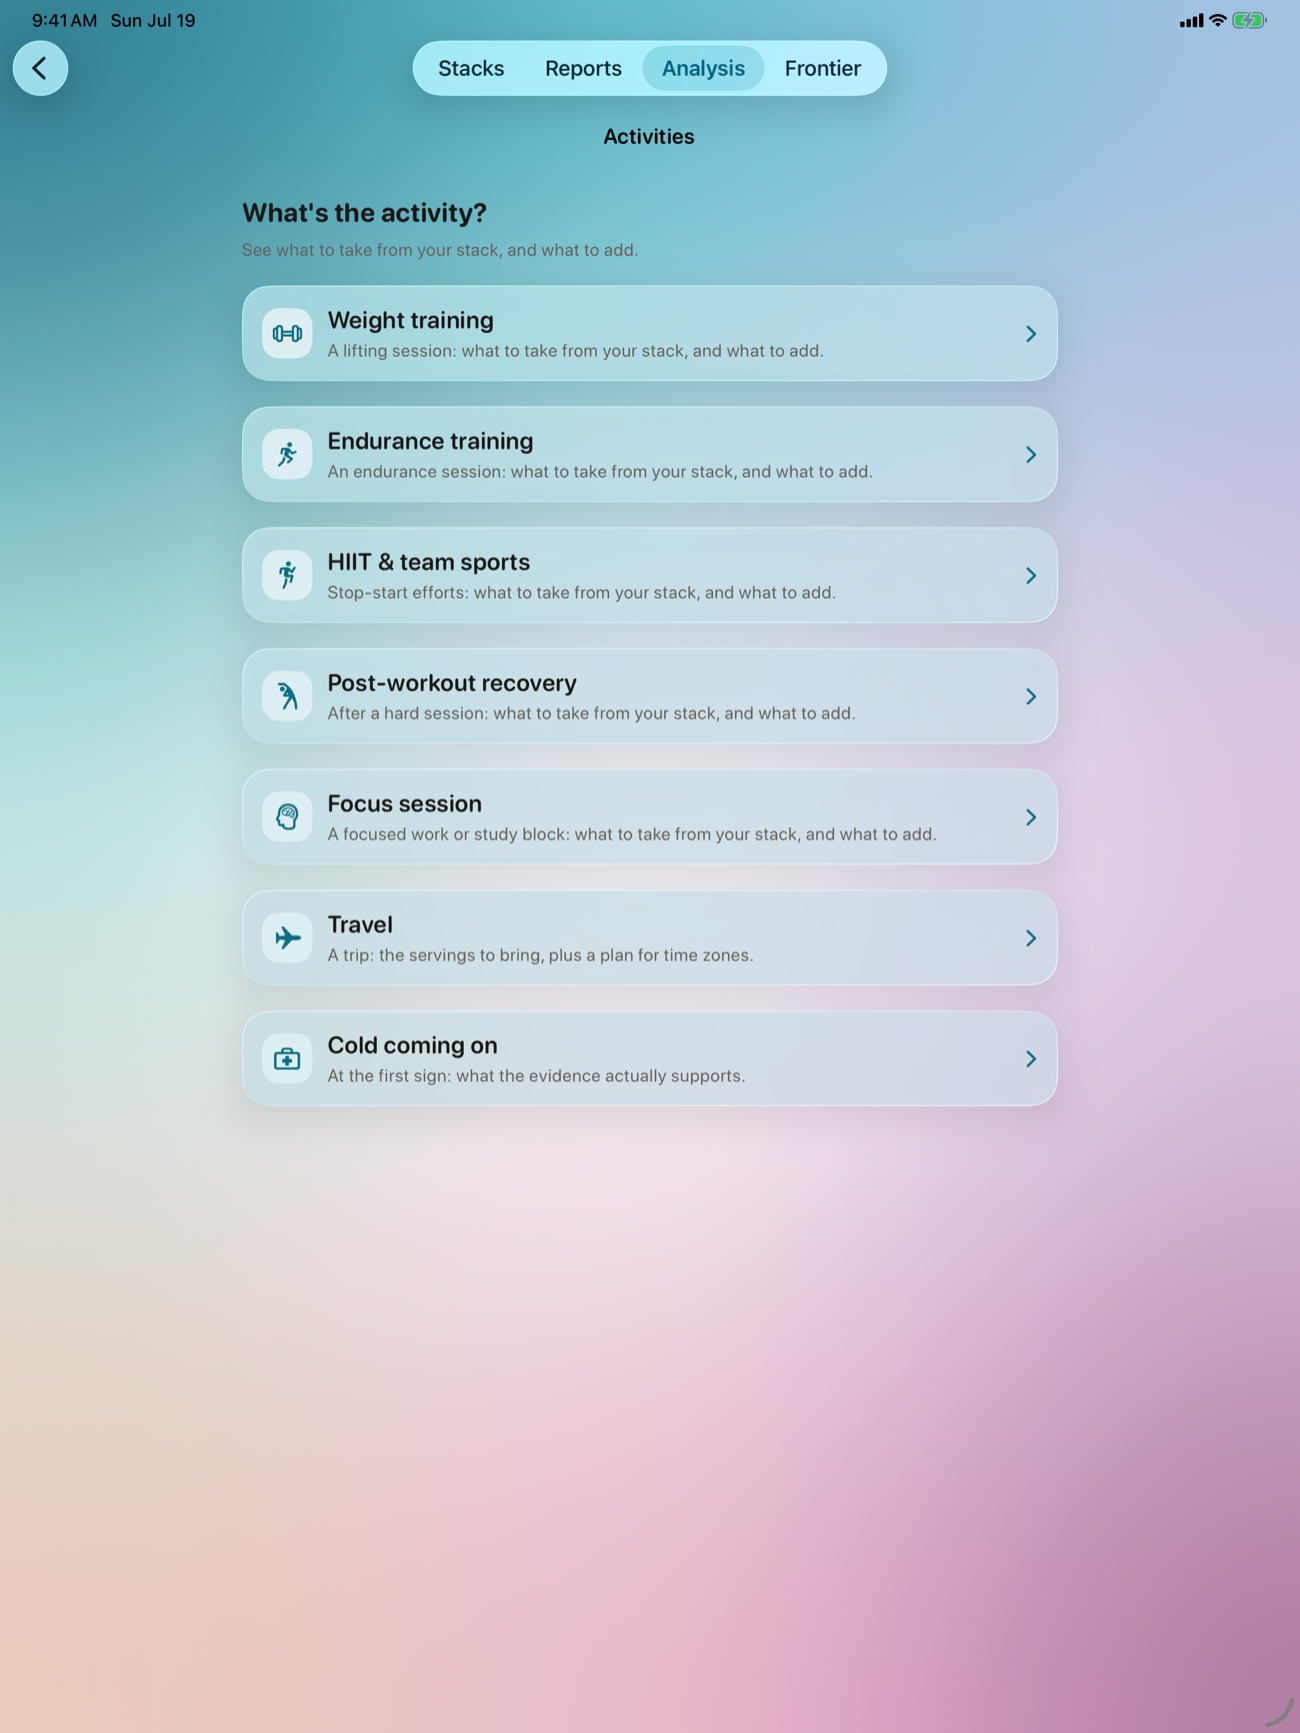
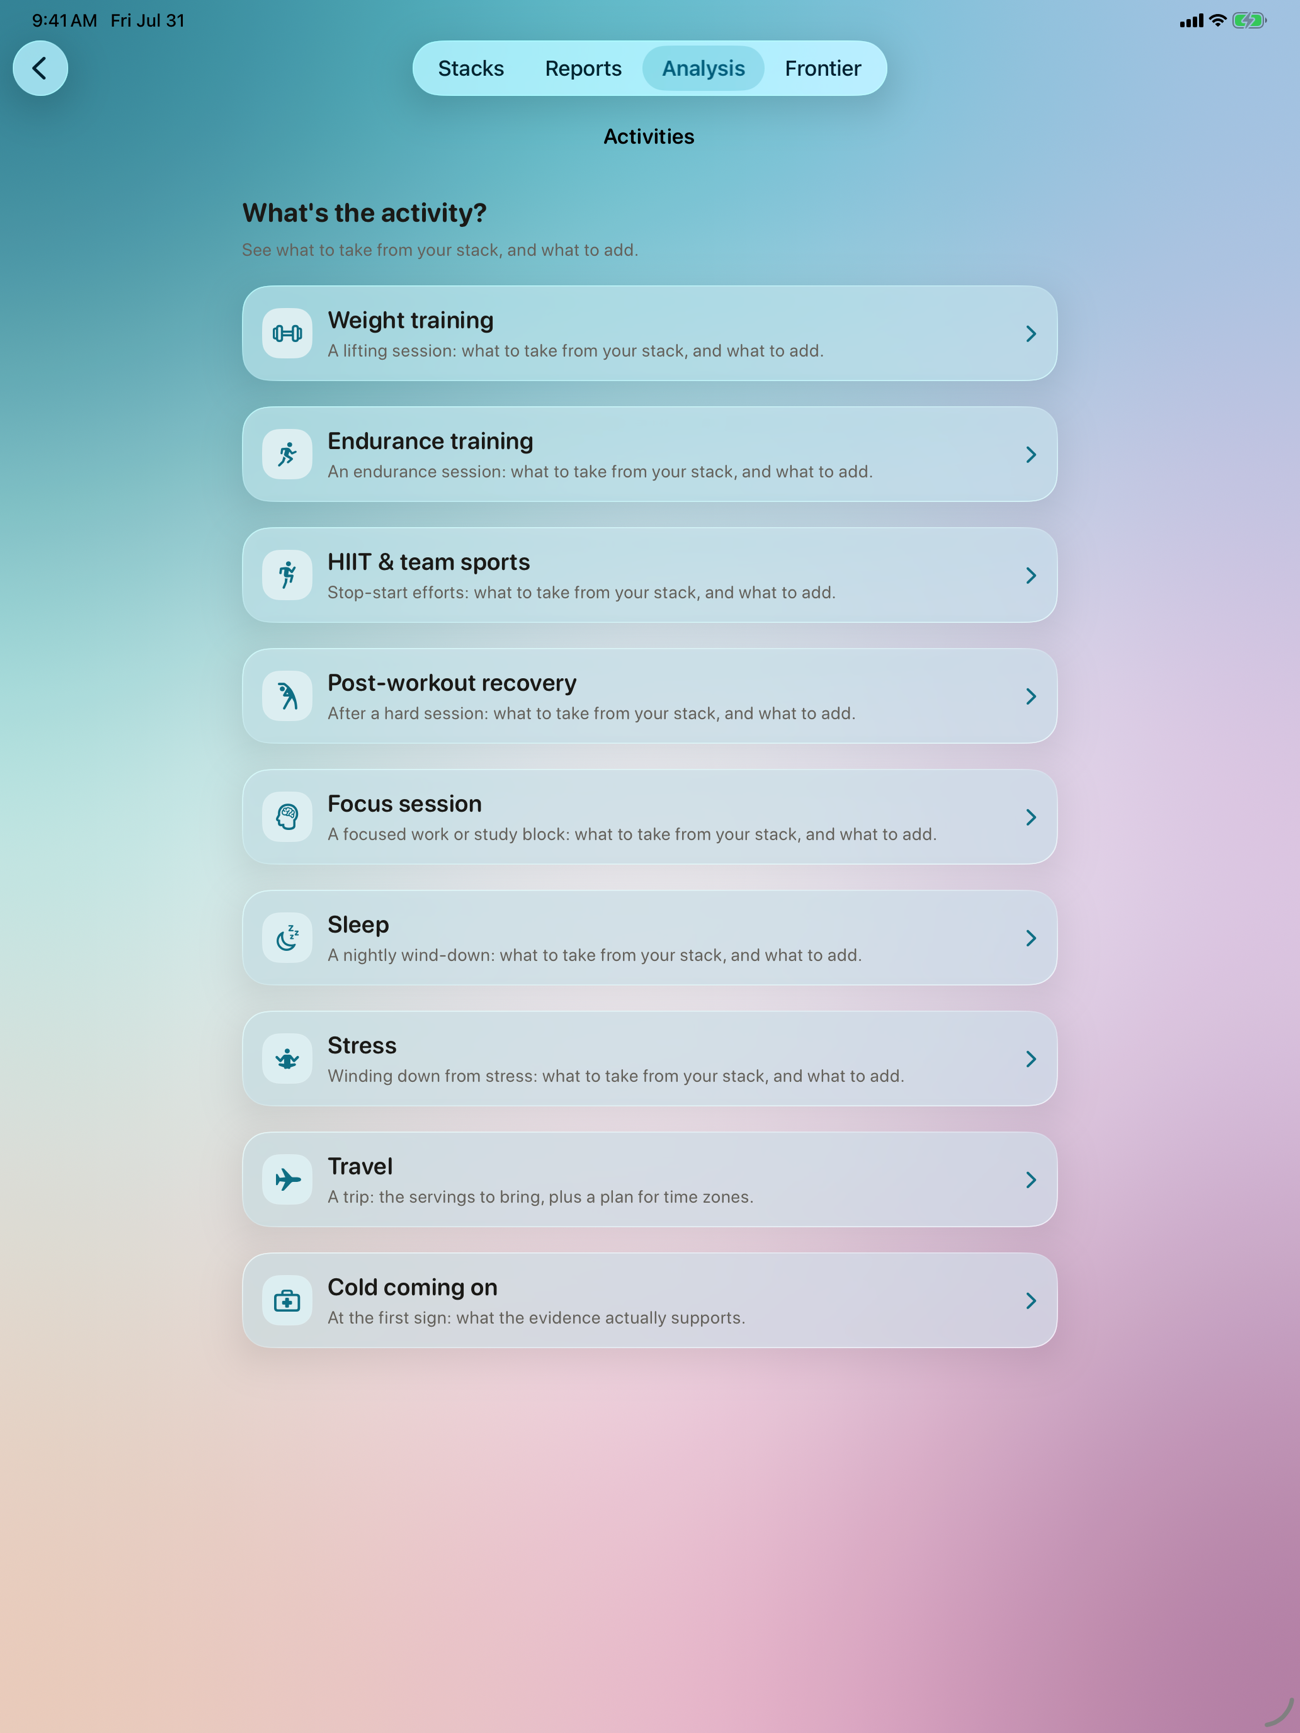
feat(auditly): cover Activities and the frontier deep links
The Activities lens was the page hero but was never named in the copy,
and 2.2.0 added Sleep and Stress to it plus dossier entry points from
the report and stack, so the iPad hero shot was two activities behind.

diff --git a/auditly.html b/auditly.html
@@ -269,15 +269,27 @@
   </div>
 </section>
 
-<!-- ===== FEATURE 4 - FRONTIER ===== -->
+<!-- ===== FEATURE 4 - ACTIVITIES ===== -->
 <section class="feature tinted reverse">
   <div class="grid">
-    <div class="shot"><div class="device device--phone"><img src="/auditly/img/iphone-frontier.png" alt="The Frontier screen - browse early-evidence substances by goal" loading="lazy"></div></div>
+    <div class="shot"><div class="device device--phone"><img src="/auditly/img/iphone-activities.png" alt="The Activities list - pick an occasion to see what to take" loading="lazy"></div></div>
+    <div class="copy">
+      <div class="eyebrow">Activities</div>
+      <h2>Pick the occasion, see the plan.</h2>
+      <p>A lifting session, a focus block, a flight, a rough night, the first sign of a cold. Auditly shows which of the supplements you already own have research behind them for that moment, what may be worth adding, and when to take it. Every suggestion cites at least one human study.</p>
+    </div>
+  </div>
+</section>
+
+<!-- ===== FEATURE 5 - FRONTIER ===== -->
+<section class="feature">
+  <div class="grid">
     <div class="copy">
       <div class="eyebrow">Frontier</div>
       <h2>Go beyond your stack.</h2>
-      <p>Browse the Frontier by goal - longevity, mood, calm, muscle, nootropics - and surface early-evidence leads tied to what you already take. Exploratory reading, not advice.</p>
+      <p>Browse the Frontier by goal - longevity, mood, calm, muscle, nootropics - and surface early-evidence leads tied to what you already take. Or reach it from where you already are: tap an ingredient under Frontier Research in your report, or press and hold a product in your stack, to open its full dossier. Exploratory reading, not advice.</p>
     </div>
+    <div class="shot"><div class="device device--phone"><img src="/auditly/img/iphone-frontier.png" alt="The Frontier screen - browse early-evidence substances by goal" loading="lazy"></div></div>
   </div>
 </section>
 
